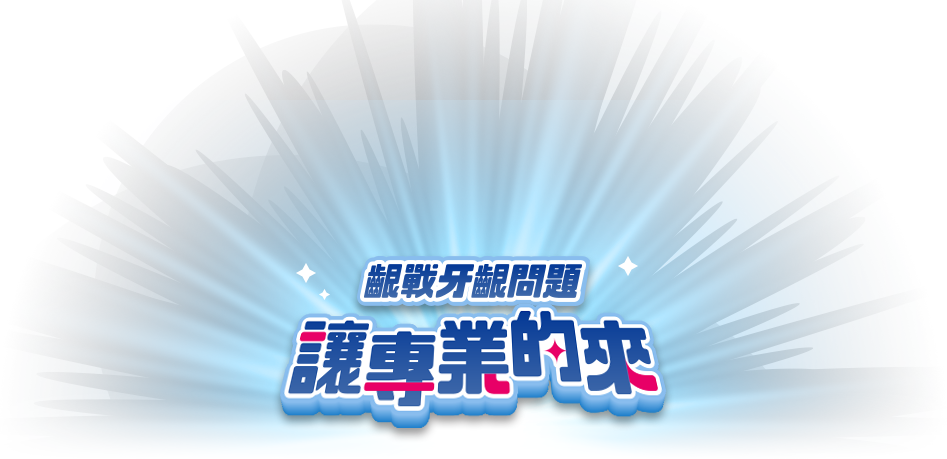
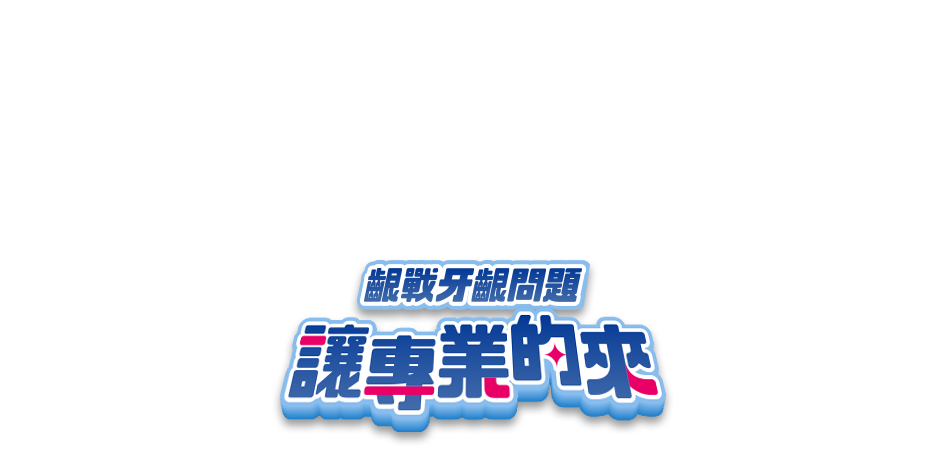
fix

diff --git a/css/exam.css b/css/exam.css
@@ -35,6 +35,24 @@ img {
   position: relative;
   z-index: 2;
 }
+.exam .examTitle img {
+  position: relative;
+  z-index: 1;
+}
+.exam .examTitle:before {
+  content: "";
+  position: absolute;
+  top: 0;
+  right: 0;
+  bottom: 0;
+  left: 0;
+  display: block;
+  background-image: url(../images/exam_title_shine.png);
+  background-repeat: no-repeat;
+  background-size: contain;
+  background-position: center;
+  z-index: 0;
+}
 .exam .examItem {
   position: absolute;
   top: 0;

diff --git a/sass/exam.sass b/sass/exam.sass
@@ -22,6 +22,22 @@
 	.examTitle
 		position: relative
 		z-index: 2
+		img
+			position: relative
+			z-index: 1
+		&:before
+			content: ''
+			position: absolute
+			top: 0
+			right: 0
+			bottom: 0
+			left: 0
+			display: block
+			background-image: url(../images/exam_title_shine.png)
+			background-repeat: no-repeat
+			background-size: contain
+			background-position: center
+			z-index: 0
 	.examItem
 		position: absolute
 		top: 0
